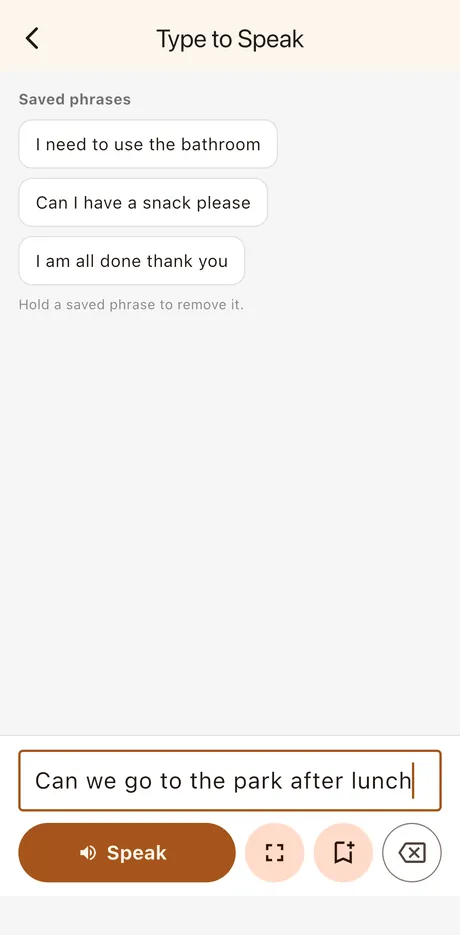
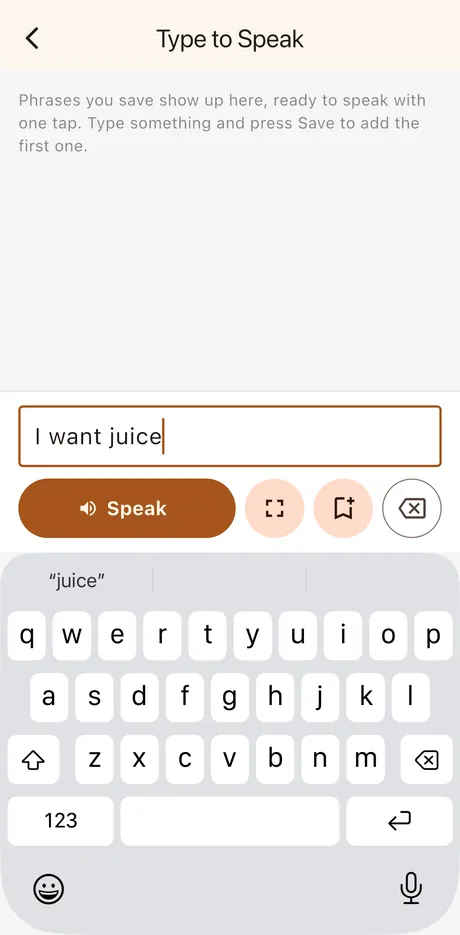
Show Type to Speak actually being typed on, and drop the usage note
The Type to Speak shot had a finished message sitting in the field and no
keyboard anywhere, because the simulator hides the software keyboard
while a hardware one is attached. A keyboard screen with no keyboard in
it does not show what the screen is for. Recaptured mid-sentence with the
keyboard up: "I want juice" being typed, Speak lit, suggestions showing.

The paragraph about the usage screen being real is removed, along with
its styles.

Worth recording for the next time screenshots are needed: disconnect the
hardware keyboard first (defaults write com.apple.iphonesimulator
ConnectHardwareKeyboard -bool NO, then bring the Simulator to the front),
and type short phrases — injecting a long one outran autocorrect and
turned "Can we go to the park" into "Can park".

diff --git a/index.html b/index.html
@@ -128,7 +128,7 @@
     <div class="shots" role="list">
       <figure class="shot" role="listitem">
         <img src="/assets/shot-type.webp" width="460" height="935" loading="lazy"
-             alt="The Type to Speak screen with the message “Can we go to the park after lunch” typed in, above a Speak button and saved phrases.">
+             alt="The Type to Speak screen with “I want juice” being typed on the keyboard, above a Speak button.">
         <figcaption><strong>Type to Speak</strong>A keyboard that speaks in the
         same voice as the board, with saved phrases one tap away.</figcaption>
       </figure>
@@ -156,14 +156,6 @@
         <figcaption><strong>Caregiver</strong>Everything a grown-up needs behind
         one gear, and an optional PIN keeping it out of everyday use.</figcaption>
       </figure>
-    </div>
-
-    <div class="shots-note">
-      <p><strong>That usage screen is real.</strong> Every count came from Malachi
-      actually using the board, tracked per word so a caregiver or SLP can see
-      what is landing and what isn't. The icon at its top right turns the same
-      data into a CSV — label, category, all-time, 7-day, 30-day, last tapped —
-      ready to attach to an IEP update.</p>
     </div>
   </div>
 </section>

diff --git a/assets/style.css b/assets/style.css
@@ -615,13 +615,6 @@
     #in-action { display: none; }
   }
 
-  .shots-note {
-    margin-top: 36px; padding: 22px 26px;
-    background: var(--paper-raised); border: 1px solid var(--line);
-    border-left: 3px solid var(--teal); border-radius: 14px;
-  }
-  .shots-note p { color: var(--ink-soft); font-size: 0.96rem; max-width: 76ch; }
-  .shots-note strong { color: var(--ink); }
 
   /* The email is a link inside footer prose, which is set in the muted
      ink — it needs to be visibly a link without shouting. */
